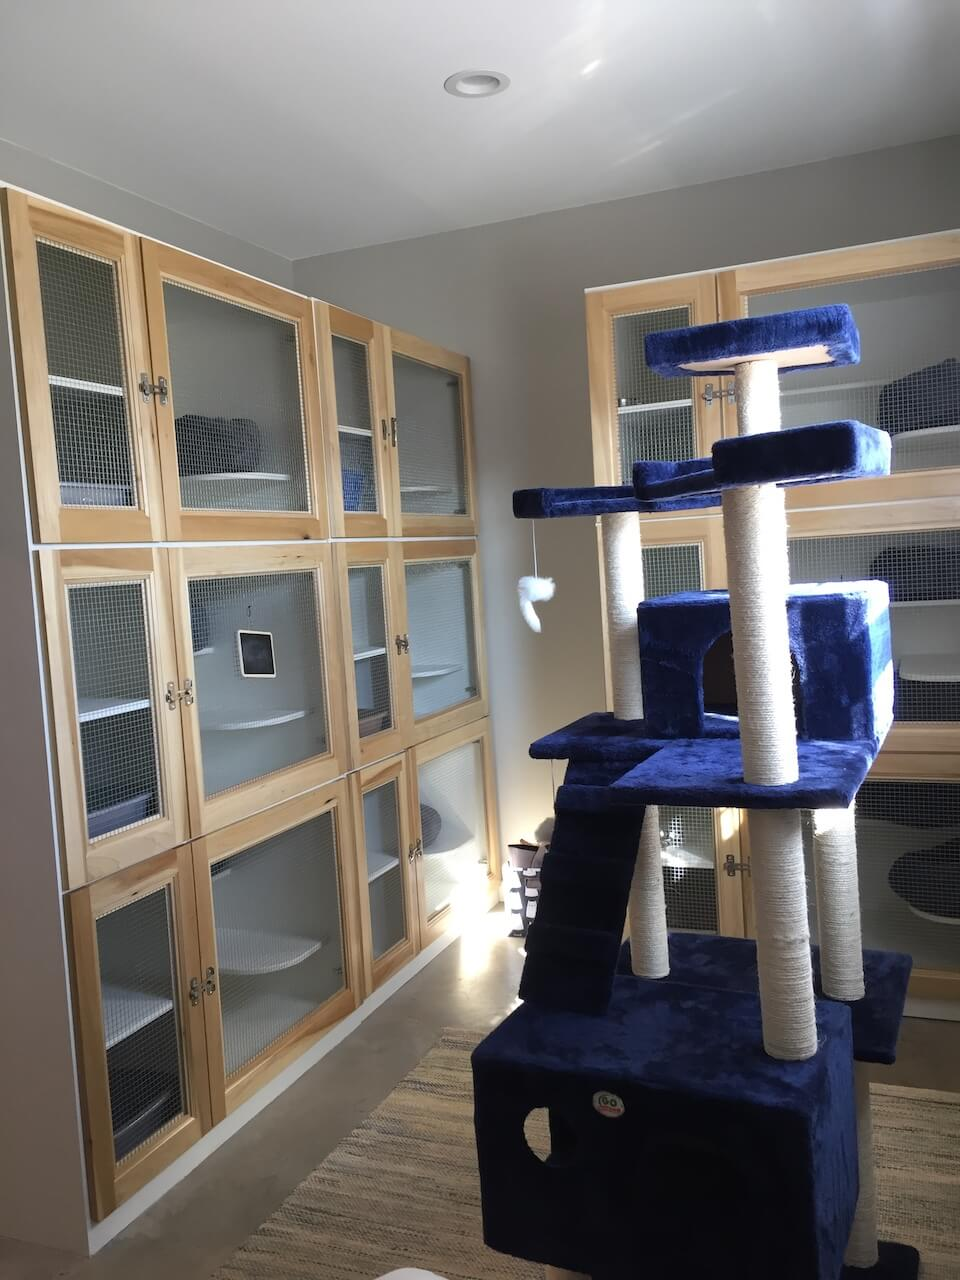
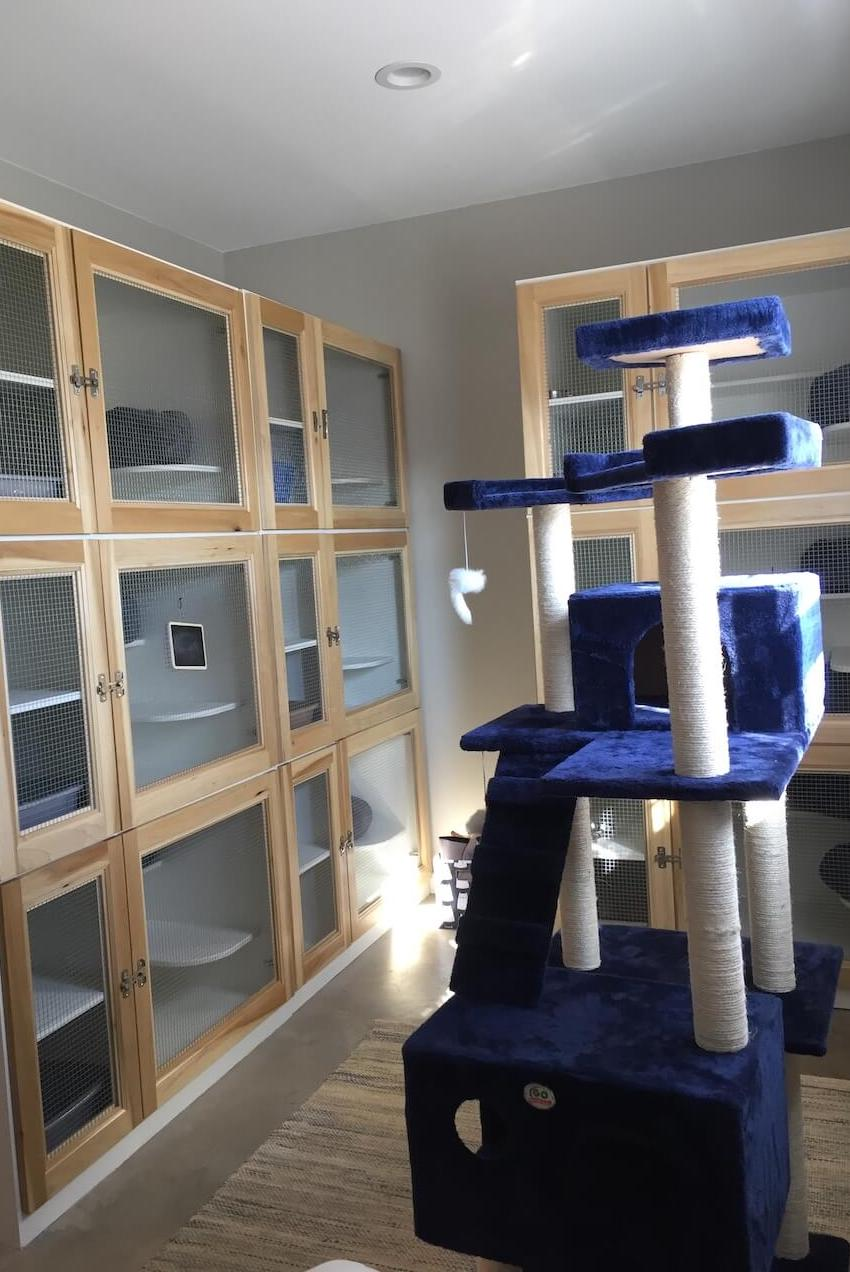
commit jamie 10/6

diff --git a/cattery.html b/cattery.html
@@ -179,19 +179,19 @@
         </div>
       </div>
 
-      <div class="row">
+      <div class="row align-items-center justify-content-center">
 
         <div class="col-md-4  mx-0">
           
             <img class=" img-fluid" src="img/catteryPost2.jpeg" alt="cat daycare" lazy="true">
           
         </div>
-        <div class="col-md-4  mx-0 d-flex justify-content-center">
+        <div class="col-md-4  mx-0 ">
           
             <img class=" img-fluid" src="img/Cattery .jpg" alt="cat daycare" lazy="true">
           
         </div>
-        <div class="col-md-4  mx-0">
+        <div class="col-md-4  mx-0  ">
           
             <img class=" img-fluid" src="img/Cattery II.jpg" alt="cat daycare" lazy="true">
           

diff --git a/css/style.css b/css/style.css
@@ -632,11 +632,11 @@ nav ul{
   
 }
 
-#kittyGallery .row img {
+/* #kittyGallery .row img {
   max-width: 358px;
   max-height: 477px;
   
-}
+} */
 
 @media(max-width: 768px) {
   #kittyGallery .row img {
